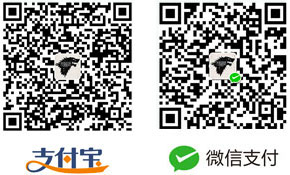
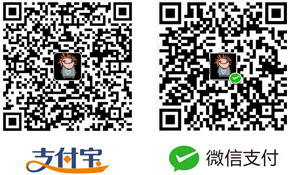
update dashang text and image

diff --git a/_layouts/post.html b/_layouts/post.html
@@ -18,14 +18,14 @@ menu_selected : blog
     </div>
     <div class="post-content markdown-body">
         <div class="article-index"></div>
-        <div class="article-content">{{ content }}</div>
-        <div class="hr"></div>
-        <div class="article-sourcelink">
-            原文链接：<a href="http://tabalt.net{{ page.url | replace : '/index.html', ''}}/">http://tabalt.net{{ page.url | replace : '/index.html', ''}}/</a><br />本博文章如无说明均为原创，转载时请注明以上链接
+        <div class="article-content">
+            {{ content }}
+
+            <p>本文链接：<a href="http://tabalt.net{{ page.url | replace : '/index.html', ''}}/">http://tabalt.net{{ page.url | replace : '/index.html', ''}}/</a>，转载请注明。</p>
         </div>
         <div class="article-dashang">
-            如果我的文章对您有帮助，欢迎给我打赏，您的支持是我码字的动力~ <br />
-            <img src="/images/blog/dashang.jpg" />
+            <img src="/images/blog/dashang.jpg" /><br />
+            如果文章对您有帮助，欢迎打赏， 您的支持是我码字的动力！
         </div>
     </div>
 

diff --git a/static/css/style.css b/static/css/style.css
@@ -288,12 +288,13 @@ a:hover {
     width: 100%;
     padding: 0;
 }
-.article-sourcelink, .article-dashang {
-    margin: 5px auto;
+.article-dashang {
+    margin-top: 25px;
     font-size: 14px;
+    text-align: center;
 }
 .article-dashang img{
-    margin-top: 5px;
+    margin: 5px auto;
 }
 
 .post-item .time { 
